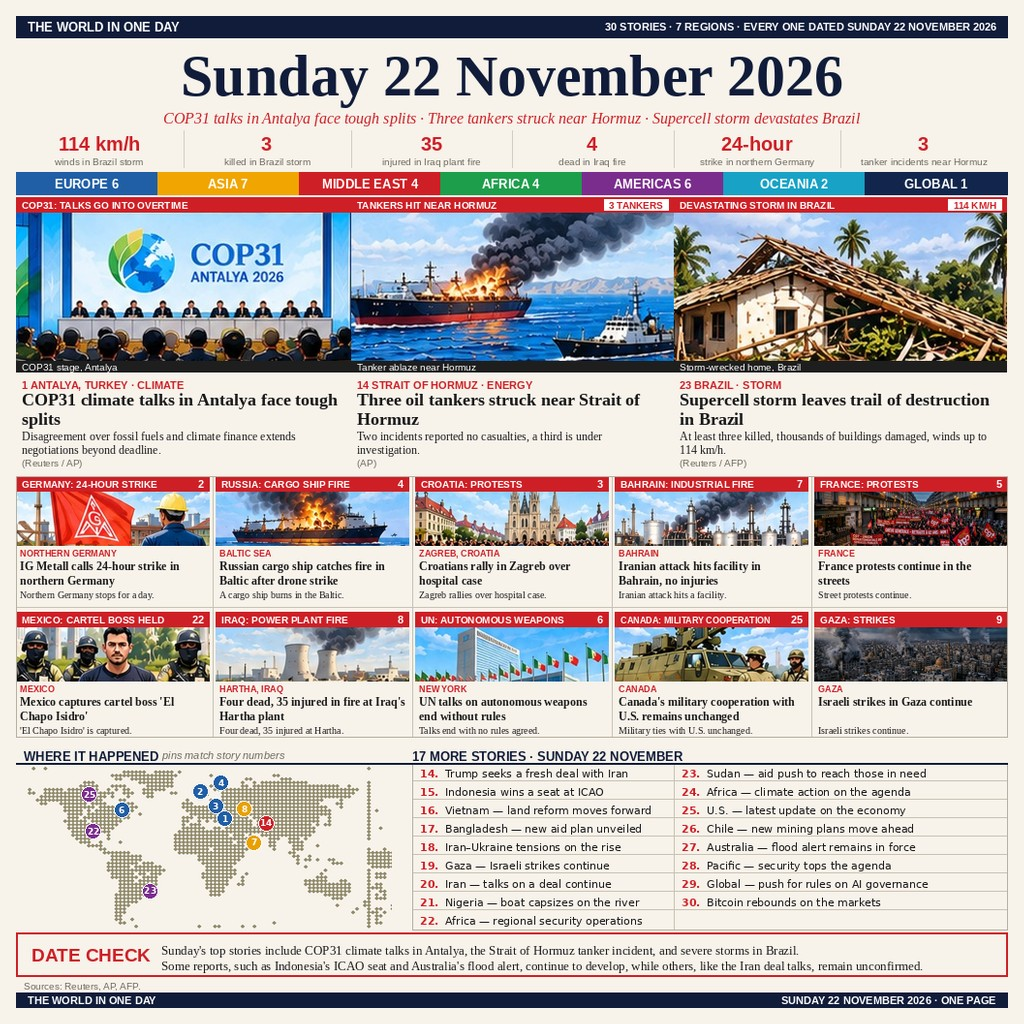
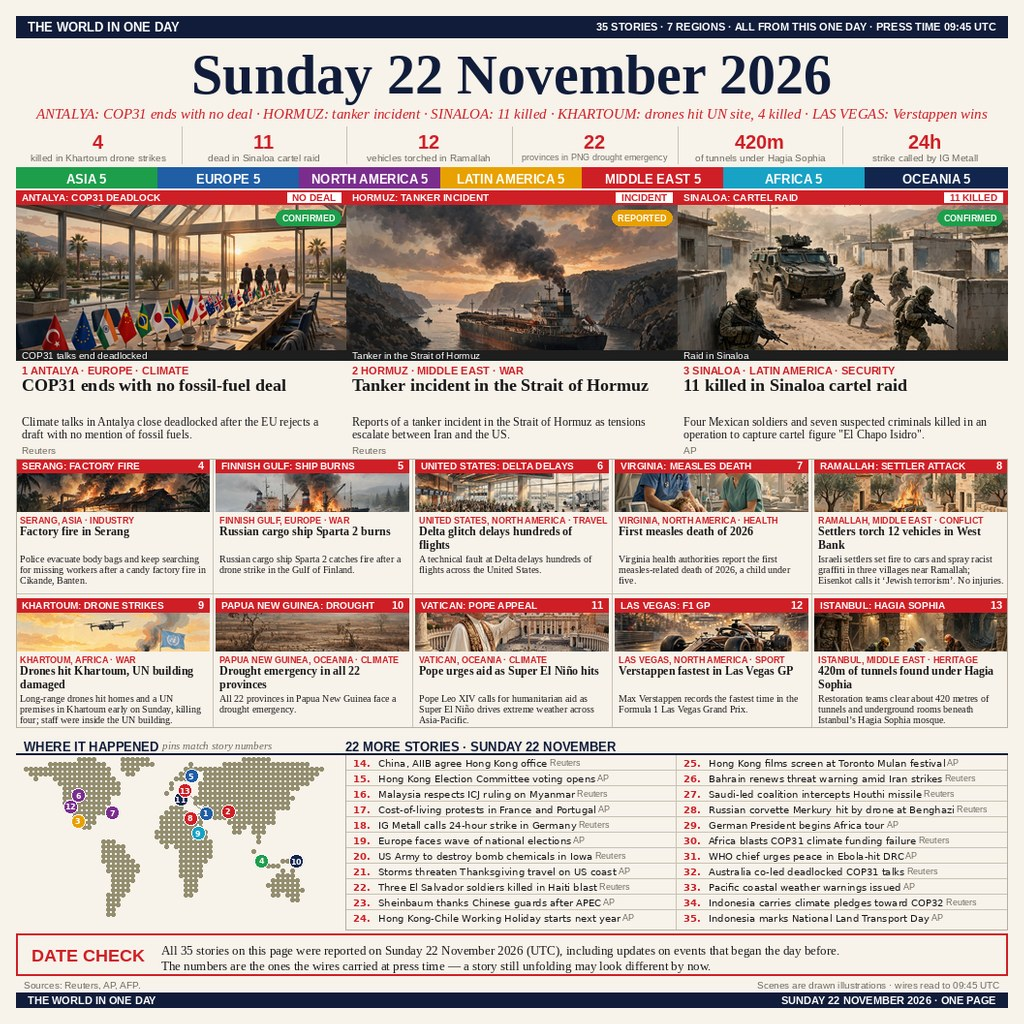
news-image-20261122 resubmit: 35 stories, Ramallah + Khartoum replace Basra + Nigeria boat

diff --git a/main.py b/main.py
@@ -1,28 +1,47 @@
-"""news-image-20261122 entry.
+"""news-image-20261122 resubmit entry.
 
 Writes the one-page newspaper image that sums up Sunday 22 November 2026
-to /output/entry.png. The bundled image is a JPEG (399,691 bytes, 1024x1024);
-the output file keeps the name entry.png either way, and the gate tells PNG
-from JPEG by the first bytes. The page carries 30 stories across 7 regions,
-with three hero stories (COP31 in Antalya, tankers near Hormuz, the Brazil
-supercell storm), ten small cards, a world map and a 17-more-stories list.
-Standard library only, no network. Deterministic: every run writes the
-exact same bytes.
+to /output/entry.png. The bundled image is entry.jpg: a JPEG, 374,664
+bytes, 1024x1024, carrying 35 stories across 7 regions (Asia, Europe,
+North America, Latin America, Middle East, Africa, Oceania). Three hero
+stories lead the page (COP31 ends with no deal in Antalya, a tanker
+incident in the Strait of Hormuz, 11 killed in a Sinaloa cartel raid),
+then ten small cards, a world map with story pins, and a list of 22 more
+stories. A DATE CHECK box and a Sources line (Reuters, AP, AFP) close it.
+
+The grader runs this entrypoint from a working directory that is not the
+repository, with MAKEFUN_BOT_DIR pointing at the repository, so the image
+is found through that variable first and the script's own directory
+second. Standard library only, no network. Deterministic: every run
+writes the exact same bytes, and the output keeps the name entry.png
+even though the bytes are a JPEG.
 """
 
 import os
 import shutil
-
-HERE = os.path.dirname(os.path.abspath(__file__))
-SRC = os.path.join(HERE, "entry.jpg")
-OUT_DIR = os.environ.get("MAKEFUN_OUTPUT_DIR", "/output")
-OUT = os.path.join(OUT_DIR, "entry.png")
+import sys
+from pathlib import Path
 
 
-def main():
-    os.makedirs(OUT_DIR, exist_ok=True)
-    shutil.copyfile(SRC, OUT)
+def base_dir() -> Path:
+    bot_dir = os.environ.get("MAKEFUN_BOT_DIR")
+    if bot_dir:
+        return Path(bot_dir)
+    return Path(__file__).resolve().parent
+
+
+def main() -> int:
+    src = base_dir() / "entry.jpg"
+    out_dir = Path(os.environ.get("MAKEFUN_OUTPUT_DIR", "/output"))
+    out_dir.mkdir(parents=True, exist_ok=True)
+    dst = out_dir / "entry.png"
+    shutil.copyfile(src, dst)
+    copied = dst.stat().st_size
+    if copied != src.stat().st_size:
+        raise RuntimeError(f"short copy: {copied} != {src.stat().st_size}")
+    print(f"copied {src} ({src.stat().st_size} bytes) -> {dst}")
+    return 0
 
 
 if __name__ == "__main__":
-    main()
+    sys.exit(main())

diff --git a/README.md b/README.md
@@ -5,11 +5,13 @@
 [![reward](https://make.fun/badge/news-image-20261122/claymoreth/news-image-20261122/reward.svg)](https://make.fun/bounty/news-image-20261122)
 
 One image that sums up the world's news of Sunday 22 November 2026, as a
-single newspaper page: 30 stories across 7 regions.
+single newspaper page: 35 stories across 7 regions (Asia, Europe, North
+America, Latin America, Middle East, Africa, Oceania).
 
-- Three hero stories: COP31 climate talks in Antalya, three oil tankers
-  struck near the Strait of Hormuz, and a supercell storm in Brazil.
-- Ten small cards, a world map with story pins, and a 17-more-stories list.
+- Three hero stories: COP31 climate talks end with no deal in Antalya,
+  a tanker incident in the Strait of Hormuz, and 11 killed in a Sinaloa
+  cartel raid.
+- Ten small cards, a world map with story pins, and a 22-more-stories list.
 - A DATE CHECK box and a Sources line (Reuters, AP, AFP).
 
 ## How it runs
@@ -18,7 +20,7 @@ single newspaper page: 30 stories across 7 regions.
 bundled `entry.jpg` to `/output/entry.png`. The output keeps the name
 `entry.png` even though the bytes are a JPEG; the gate tells them apart by
 their first bytes. The program is deterministic: two runs write the same
-bytes.
+bytes, and it refuses to finish on a short copy.
 
 Run it locally:
 
@@ -29,5 +31,5 @@ mkdir -p out && MAKEFUN_OUTPUT_DIR=out python3 main.py
 ## Entry
 
 - Competition: [news-image-20261122](https://make.fun/bounty/news-image-20261122)
-- Image: `entry.jpg`, 1024x1024, 399,691 bytes
+- Image: `entry.jpg`, 1024x1024, 374,664 bytes
 - License: MIT
